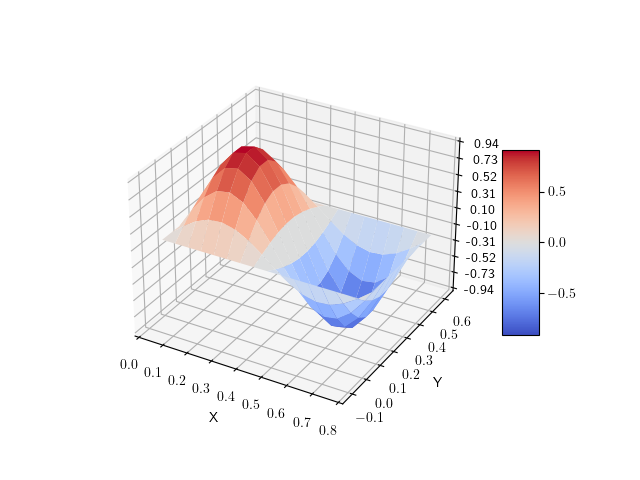
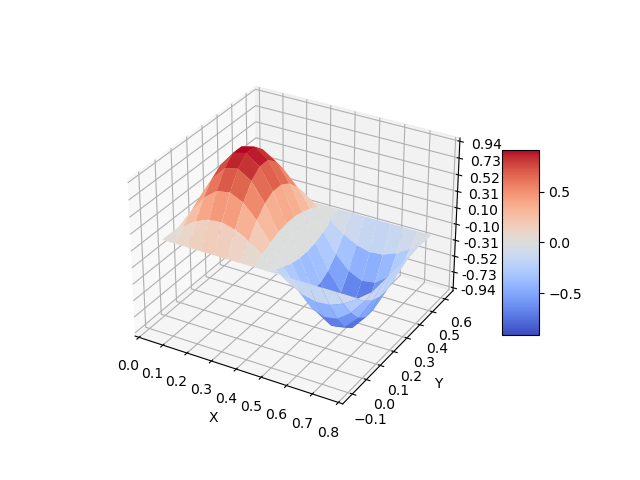
Poroelastic and Allard theory implementation and theory refined. Bugs in pyva documentation on website corrected

diff --git a/pyva/data/matrixClasses.py b/pyva/data/matrixClasses.py
@@ -1885,7 +1885,11 @@ class DataAxis:
     @staticmethod
     def octave_band (f_min=2*np.pi*250, f_max=2*np.pi*4000, bands_per_octave = 3, typeID = 21):
         """
-        Mathod for octave / log space creation
+        Method for octave / log space creation.
+        
+        Depending on the typeID parameter the center frequencies are given Hertz or
+        as angular frequency in sec^-1
+        
         
         Parameters
         ----------
@@ -1900,7 +1904,8 @@ class DataAxis:
 
         Returns
         -------
-        DataAxis with center log spaces center frequencies
+        DataAxis 
+            with center log spaces center frequencies
 
         """
         
@@ -2656,7 +2661,8 @@ class ShapeSignal(Signal):
 
 
         fig = plt.figure(fig)
-        ax = fig.gca(projection='3d')
+        #ax = fig.gca(projection='3d')
+        ax = plt.axes(projection='3d')
 
         X, Y = self._mesh.nodes()
         Z = self.ydata[:,index].reshape(X.shape)

diff --git a/pyva/systems/acousticRadiators.py b/pyva/systems/acousticRadiators.py
@@ -314,13 +314,17 @@ class HalfSpace:
         """
         Class contructor for HalfSpace
         
-        Args:
-            fluid: fluid of half space
-            treatment: treatment between vibrating surface and half space
+        Parameters
+        ----------
+        fluid : Fluid
+            of half space
+        treatment: str, Signal 
+            treatment between vibrating surface and half space
                 
-        Examples:
-            import acousticRadiators as ar
-            myHalfSpace = ar.HalfSpace()
+        Examples
+        --------
+            import acousticRadiators as aR
+            myHalfSpace = aR.HalfSpace()
                         
         """
 

diff --git a/doc/source/system_classes.rst b/doc/source/system_classes.rst
@@ -124,8 +124,8 @@ The outcome is a VAmodel representation of this tube in the desired frequency ra
     >>> tube_elem
     LinearMatrix of size (2, 2, 11), sym: 1
     DataAxis of 11 samples and type angular frequency in hertz
-    resdof: DOF object with ID [1 2], DOF [1 1] of type [volume flow in meter ** 3 / second]
-    excdof: DOF object with ID [1 2], DOF [0 0] of type [pressure in pascal]
+    resdof: DOF object with ID [1 2], DOF [1 1] of type [DOFtype(typestr='volume flow')]
+    excdof: DOF object with ID [1 2], DOF [0 0] of type [DOFtype(typestr='pressure')]
 
 Lumped acoustic systems
 ***********************
@@ -244,7 +244,7 @@ The porosity of the perforate can be requested. ::
 The important quantity is the transfer impedance can be visualised using the plot method ::
 
     >>> omega = 2*np.pi*np.linspace(1.,1000.)
-    >>> perf.plot(xdata,res='real')
+    >>> perf.plot(omega,res='real')
 
 Leading to the following result
 
@@ -299,8 +299,8 @@ half because the perforate doesn't require an end correction on top. ::
 With a new appropriate frequency range, the results can be calculated using the acoustic_impedance method. ::
 
     >>> omega = 2*np.pi*np.linspace(100.,5000.,200)
-    >>> Za_pure = resPure.radiation_impedance(omega)
-    >>> Za_perf = resPerf.radiation_impedance(omega)
+    >>> Za_pure = myResPure.radiation_impedance(omega)
+    >>> Za_perf = myResPerf.radiation_impedance(omega)
 
 and plotted with matplotlib. ::
 
@@ -311,6 +311,7 @@ and plotted with matplotlib. ::
     >>> plt.plot(omega,np.imag(Za_perf),label = 'Im perf')
     >>> plt.xscale('log')
     >>> plt.legend(loc=4)
+    >>> plt.show()
     
 .. _fig-HR-acoustic-impedance:
 
@@ -339,7 +340,16 @@ The resonator is generated via the following code snipped::
     >>> quarter_perf  = ac1Dsys.QuarterWaveResonator(4*L,R,air,0,end_impedance=perf.radiation_impedance)
     >>> Za_perf = quarter_perf.radiation_impedance(omega)
     
-Leading to the following result:
+Using matplotlib ::
+
+    plt.figure()
+    plt.plot(omega,np.real(Za_perf), label = 'Re perf')
+    plt.plot(omega,np.imag(Za_perf), label = 'Im perf')
+    plt.xscale('log')
+    plt.legend(loc=4)
+    plt.show()
+
+leads to the following result:
 
 .. _fig-QWR-acoustic-impedance:
 
@@ -369,7 +379,7 @@ We use the rectangular room class to present both, the deterministic and random 
     >>> import pyva.properties.materialClasses as matC
 
     >>> # Define default fluid
-    air = matC.Fluid()
+    >>> air = matC.Fluid()
 
     >>> # Cavity Parameters
     >>> Lx = 6.
@@ -570,7 +580,7 @@ Thus, for the trim and mass law tasks this class provides methods that create an
 The plate system can be covered with noise control material, so called trim. The trim must be given as transfer matrix model, as described 
 in the :ref:`sec-infinite-layers` section.
 
-The rectangular plate
+The Rectangular Plate
 *********************
 
 The :class:`pyva.systems.structure2Dsystems.RectangularPlate` class is extension of :class:`pyva.systems.structure2Dsystems.Structure2DSystem`
@@ -585,13 +595,16 @@ The :meth:`pyva.systems.structure2Dsystems.RectangularPlate.w_mode` method provi
 First, the highest mode index for required frequency must be found. This can be done by :meth:`pyva.systems.structure2Dsystems.RectangularPlate.get_modes_index`
 that calculates a sorted mode index an provides the highest index::
 
-    _,Ns = rec_plate.get_modes_index(omega[-1])
-    N_max = Ns[-1]
+    >>> _,Ns = rec_plate.get_modes_index(omega[-1])
+    >>> N_max = Ns[-1]
     >>> N_max
-    array([18., 33.])
+    array([18, 33])
 
-For example the displacement amplitude at the excitation point is calculated as follows::
+For example the displacement amplitude at the excitation point is calculated as follows uswing the same 
+coordinates for excitation and response::
 
+    x0 = 0.71
+    y0 = 1.22
     w0 = rec_plate.w_modal_force(omega, N_max, 1., x0, y0, x0, y0)
  
 For demonstration purpose the infinite plate displacement is also calculated. ::
@@ -620,10 +633,14 @@ We create a thicker and smaller plate to keep calculation time reasonable::
 
     plate_prop  = stPC.PlateProp(h,alu)
     rec_plate   = st2Dsys.RectangularPlate(3, Lx,Ly, prop=plate_prop, eta = 0.05)
+
+A :class_`~pyva.systems.acousticRadiators.HalfSpace` of air must be created ::
+
+    half_air = aR.HalfSpace()
         
 First, we calculate the modal transmission coefficient using the modal hybrid method::
 
-    tau_modal = rec_plate6mm.modal_transmission_coefficient_discrete(omega,(half_air,),)
+    tau_modal = rec_plate.modal_transmission_coefficient_discrete(omega,(half_air,),)
     
 See chapter 11 of [Pei2022]_ for details. In addition (but mainly for demonstration purposes) the
 transmission coefficient can be calculated using the discrete radiation stiffness and the point 
@@ -648,7 +665,7 @@ by simple mapping of the analytical solution to a mesh::
 
     mode_shapes,mesh = rec_plate.normal_modes(5000.)
     
-The result is a ShapeSignal those mode shapes can be potted by::
+The result is a ShapeSignal those mode shapes can be plotted by::
 
     mode_shapes.plot3d(4,1)
     

diff --git a/doc/source/sea_models.rst b/doc/source/sea_models.rst
@@ -111,7 +111,7 @@ We have collected all input to create the model using the :class:`~pyva.models.H
 
     two_rooms = mds.HybridModel((wall,room1,room2),xdata=omega)
     two_rooms.add_junction({'areaJ_12':J123})
-    two_rooms.add_load('1mWatt',power1Watt)
+    two_rooms.add_load('1mWatt',power1mWatt)
 
 and solve it::
 
@@ -168,8 +168,8 @@ physics of the wall. The coincidence frequency is a method of the
 So, this wall will have critical sound isolation properties at 700 Hz (which is not a good design for buildings).
 For the wall system we can derive the radiation efficiency in two ways::
 
-    sigma        = wall.radiation_efficiency(om_t,fluid = air)
-    sigma_simple = wall.radiation_efficiency_simple(om_t,fluid = air)
+    sigma        = wall.radiation_efficiency(om,fluid = air)
+    sigma_simple = wall.radiation_efficiency_simple(om,fluid = air)
     
 The first method uses Leppingtons simplified approach [Lep1982]_ averaged over the quarter wavenumber circle,
 the second method is an implementation of the ISO EN 12354-1.
@@ -238,6 +238,7 @@ pressure ratio of both rooms. ::
     p1 = two_rooms.result[2].ydata.flatten()
     p2 = two_rooms.result[3].ydata.flatten()
     tau = (p2/p1)**2 
+    TL = -10*np.log10(tau)
     
 The transmission loss in figure :ref:`fig-two-rooms-TL` clearly reveals the coincidence dip.
 
